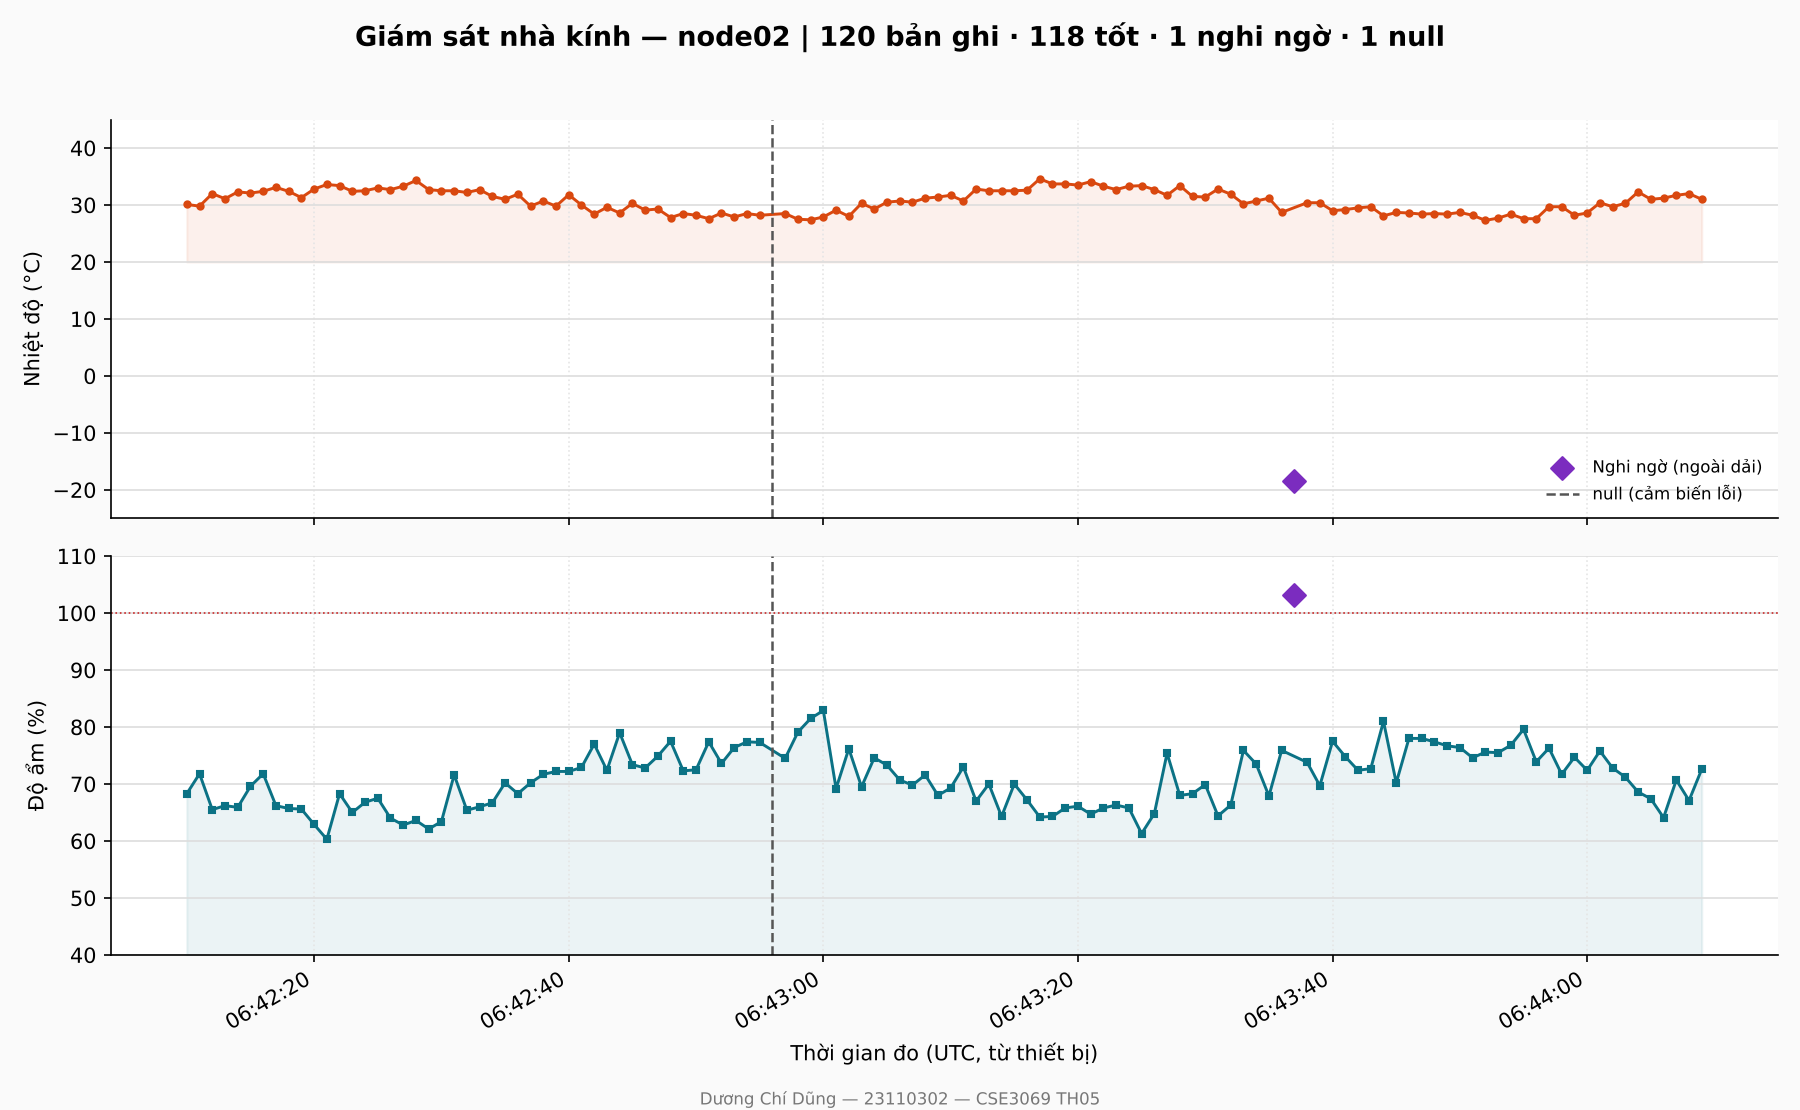
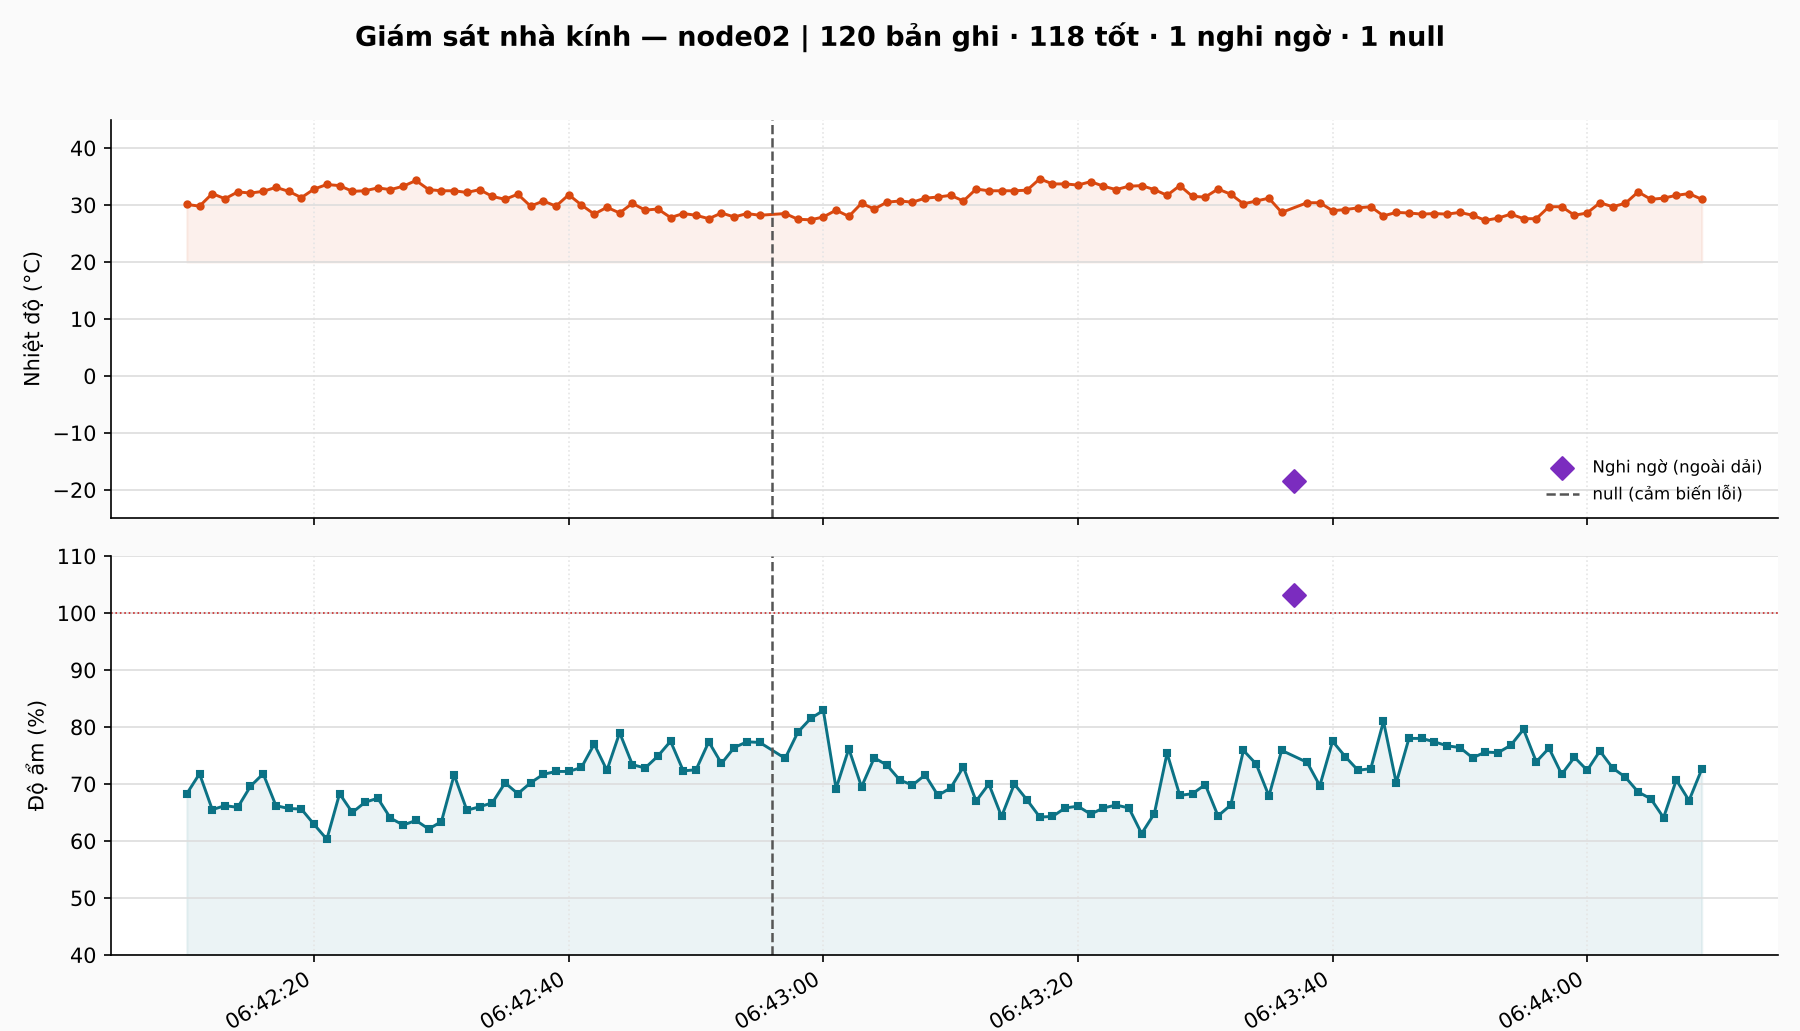
Add files via upload

diff --git a/Tuần 5/README.md b/Tuần 5/README.md
@@ -30,8 +30,8 @@ Cùng một câu truy vấn, chạy ở hai thời điểm, kết quả **trùng
 
 ![alt text](image.png)
 
-<details>
-<summary>Trích đoạn log (bấm để mở)</summary>
+
+<summary>log<summary>
 
 ```text
 id=1    device_id=node02 ts=1794811330 seq=1    temp=30.1   hum=68.3   rain=0 valid=1 suspect=0
@@ -45,7 +45,7 @@ id=88   device_id=node02 ts=1794811417 seq=88   temp=-18.4  hum=103.2  rain=0 va
 id=120  device_id=node02 ts=1794811449 seq=120  temp=31.0   hum=72.6   rain=0 valid=1 suspect=0
 -- Tổng: 120 bản ghi
 ```
-</details>
+
 
 Câu truy vấn dùng cho cả hai lần:
 ```sql
